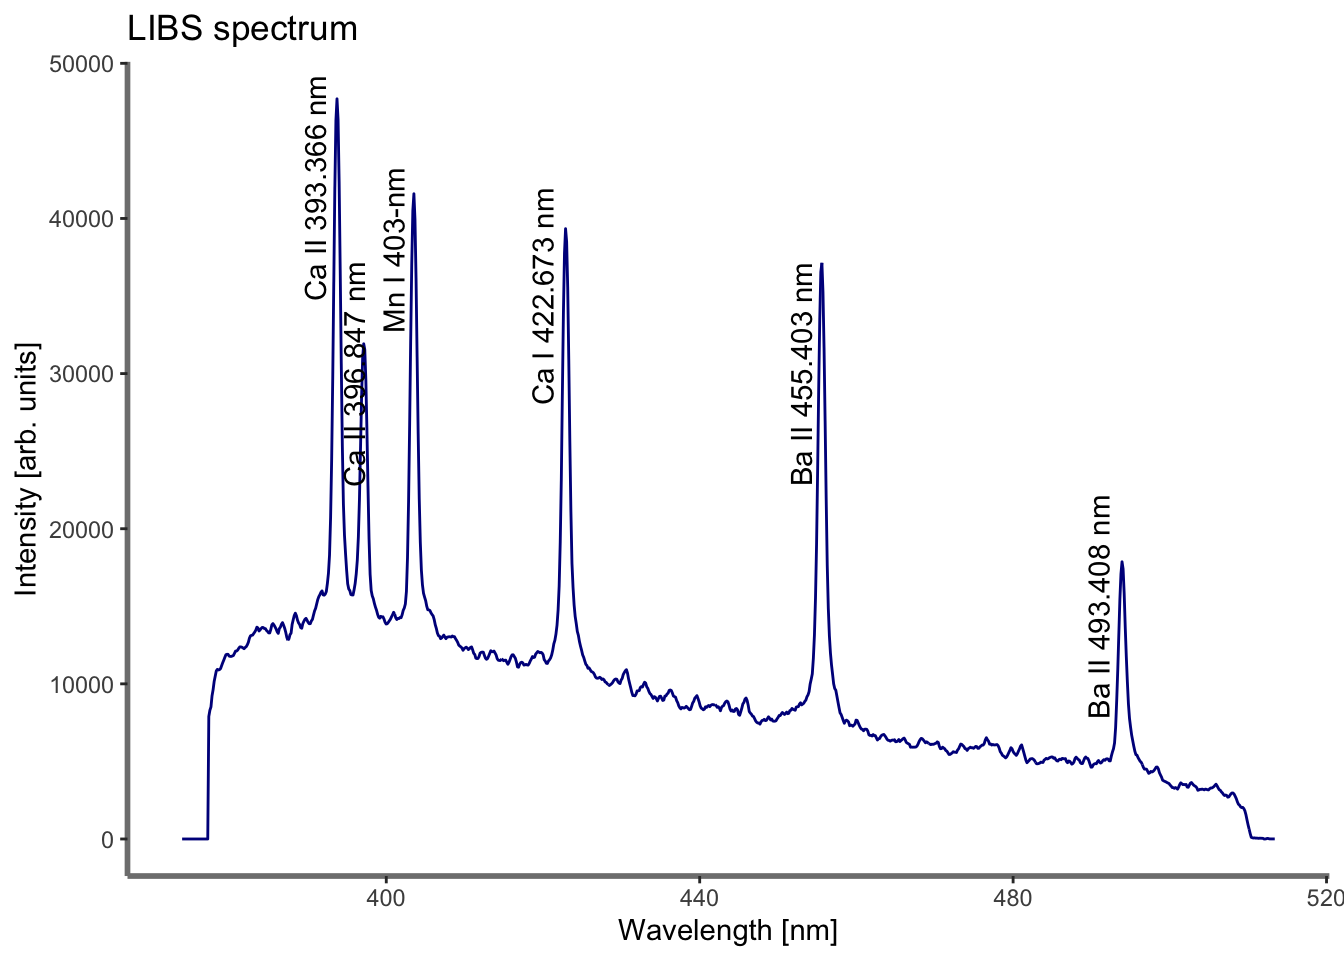
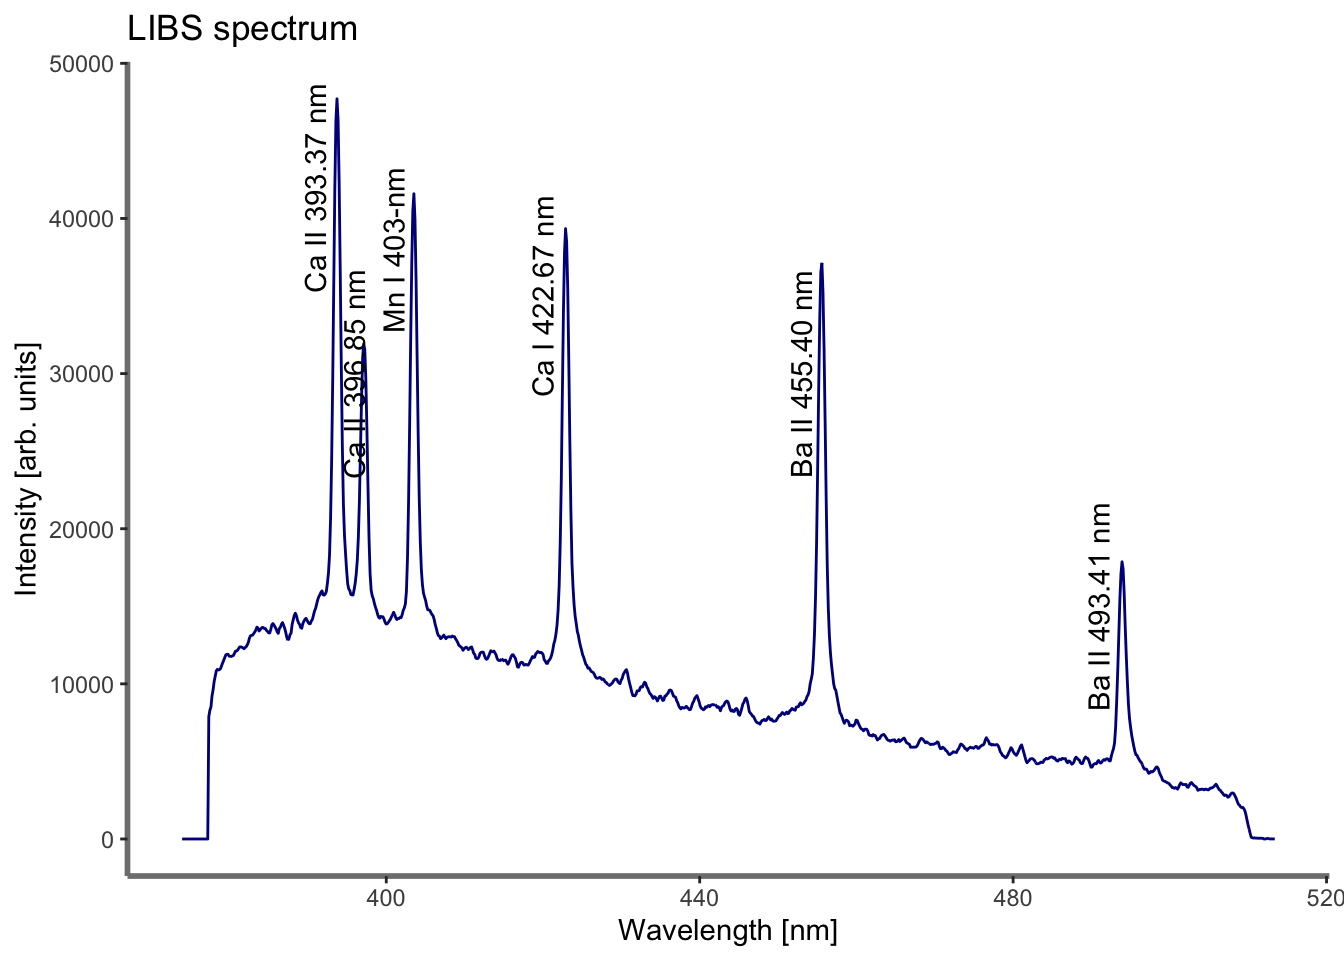
Updates

diff --git a/README.md b/README.md
@@ -52,10 +52,10 @@ library(patchwork)
 
 Prominent atomic and ionic emission lines of Mg, Ca, Ba and Mn were
 identified using the NIST atomic lines database. The spectra show
-emission lines from calcium, Ca II 393.366 nm, Ca II 396.847 nm and Ca I
-422.673 nm, unresolved manganese triplet, Mn I 403.076 nm, Mn I 403.307
-nm and Mn I 403.449 nm, and barium ionic lines, Ba II 455.403 nm and Ba
-II 493.408nm.
+emission lines from calcium, Ca II 393.37 nm, Ca II 396.85 nm and Ca I
+422.67 nm, unresolved manganese triplet, Mn I 403.08 nm, Mn I 403.31 nm
+and Mn I 403.45 nm, and barium ionic lines, Ba II 455.40 nm and Ba II
+493.41 nm.
 
 ``` r
 data(Ca_Mn_spec)
@@ -67,12 +67,12 @@ plot1 <- plotSpec(Ca_Mn_spec)
 
 ``` r
 plot1 +
-  annotate("text", x = 391, y = 4.2e4, angle = 90, label = "Ca II 393.366 nm") +
-  annotate("text", x = 396, y = 3e4, angle = 90, label = "Ca II 396.847 nm") +
+  annotate("text", x = 391, y = 4.2e4, angle = 90, label = "Ca II 393.37 nm") +
+  annotate("text", x = 396, y = 3e4, angle = 90, label = "Ca II 396.85 nm") +
   annotate("text", x = 401, y = 3.8e4, angle = 90, label = "Mn I 403-nm") +
-  annotate("text", x = 420, y = 3.5e4, angle = 90, label = "Ca I 422.673 nm") +
-  annotate("text", x = 453, y = 3e4, angle = 90, label = "Ba II 455.403 nm") +
-  annotate("text", x = 491, y = 1.5e4, angle = 90, label = "Ba II 493.408 nm") +
+  annotate("text", x = 420, y = 3.5e4, angle = 90, label = "Ca I 422.67 nm") +
+  annotate("text", x = 453, y = 3e4, angle = 90, label = "Ba II 455.40 nm") +
+  annotate("text", x = 491, y = 1.5e4, angle = 90, label = "Ba II 493.41 nm") +
   ggtitle("LIBS spectrum")
 ```
 
@@ -90,25 +90,27 @@ a low-order polynomial function to the spectrum baseline. Then the
 resulting curve fit result is subtracted from the data.
 
 ``` r
-baseline_fit <- baselinerm(data = Ca_Mn_spec, degree = 7)
+baseline_fit <- Ca_Mn_spec %>%
+  select(`390.03027`:`500.03397`) %>%
+  baselinerm(degree = 7)
 ```
 
 ``` r
 str(baseline_fit, list.len = 5) 
 #> List of 2
-#>  $ spec: tibble [1 × 1,024] (S3: tbl_df/tbl/data.frame)
-#>   ..$ 373.9455 : num 8529
-#>   ..$ 374.08179: num 8102
-#>   ..$ 374.21811: num 7681
-#>   ..$ 374.35443: num 7266
-#>   ..$ 374.49072: num 6856
+#>  $ spec: tibble [1 × 808] (S3: tbl_df/tbl/data.frame)
+#>   ..$ 390.03027: num 131
+#>   ..$ 390.1666 : num 10.5
+#>   ..$ 390.30292: num 0
+#>   ..$ 390.43921: num 129
+#>   ..$ 390.57553: num 197
 #>   .. [list output truncated]
-#>  $ bkg : tibble [1 × 1,024] (S3: tbl_df/tbl/data.frame)
-#>   ..$ 373.9455 : num 0
-#>   ..$ 374.08179: num 0
-#>   ..$ 374.21811: num 0
-#>   ..$ 374.35443: num 0
-#>   ..$ 374.49072: num 0
+#>  $ bkg : tibble [1 × 808] (S3: tbl_df/tbl/data.frame)
+#>   ..$ 390.03027: num 13831
+#>   ..$ 390.1666 : num 13864
+#>   ..$ 390.30292: num 13897
+#>   ..$ 390.43921: num 13927
+#>   ..$ 390.57553: num 13957
 #>   .. [list output truncated]
 ```
 
@@ -124,12 +126,12 @@ background <- baseline_fit %>%
 ```
 
 ``` r
-plot2 <- Ca_Mn_spec %>% 
-  plotSpec() +
+plot2 <- 
+  plotSpec(data = Ca_Mn_spec) +
   geom_line(data = background, aes(x = wavelength, y = intensity), colour = "red")
 
-plot3 <- baseline_fit %>%
-  pluck("spec") %>% 
+plot3 <-
+  pluck(baseline_fit, "spec") %>% 
   plotSpec()
 ```
 
